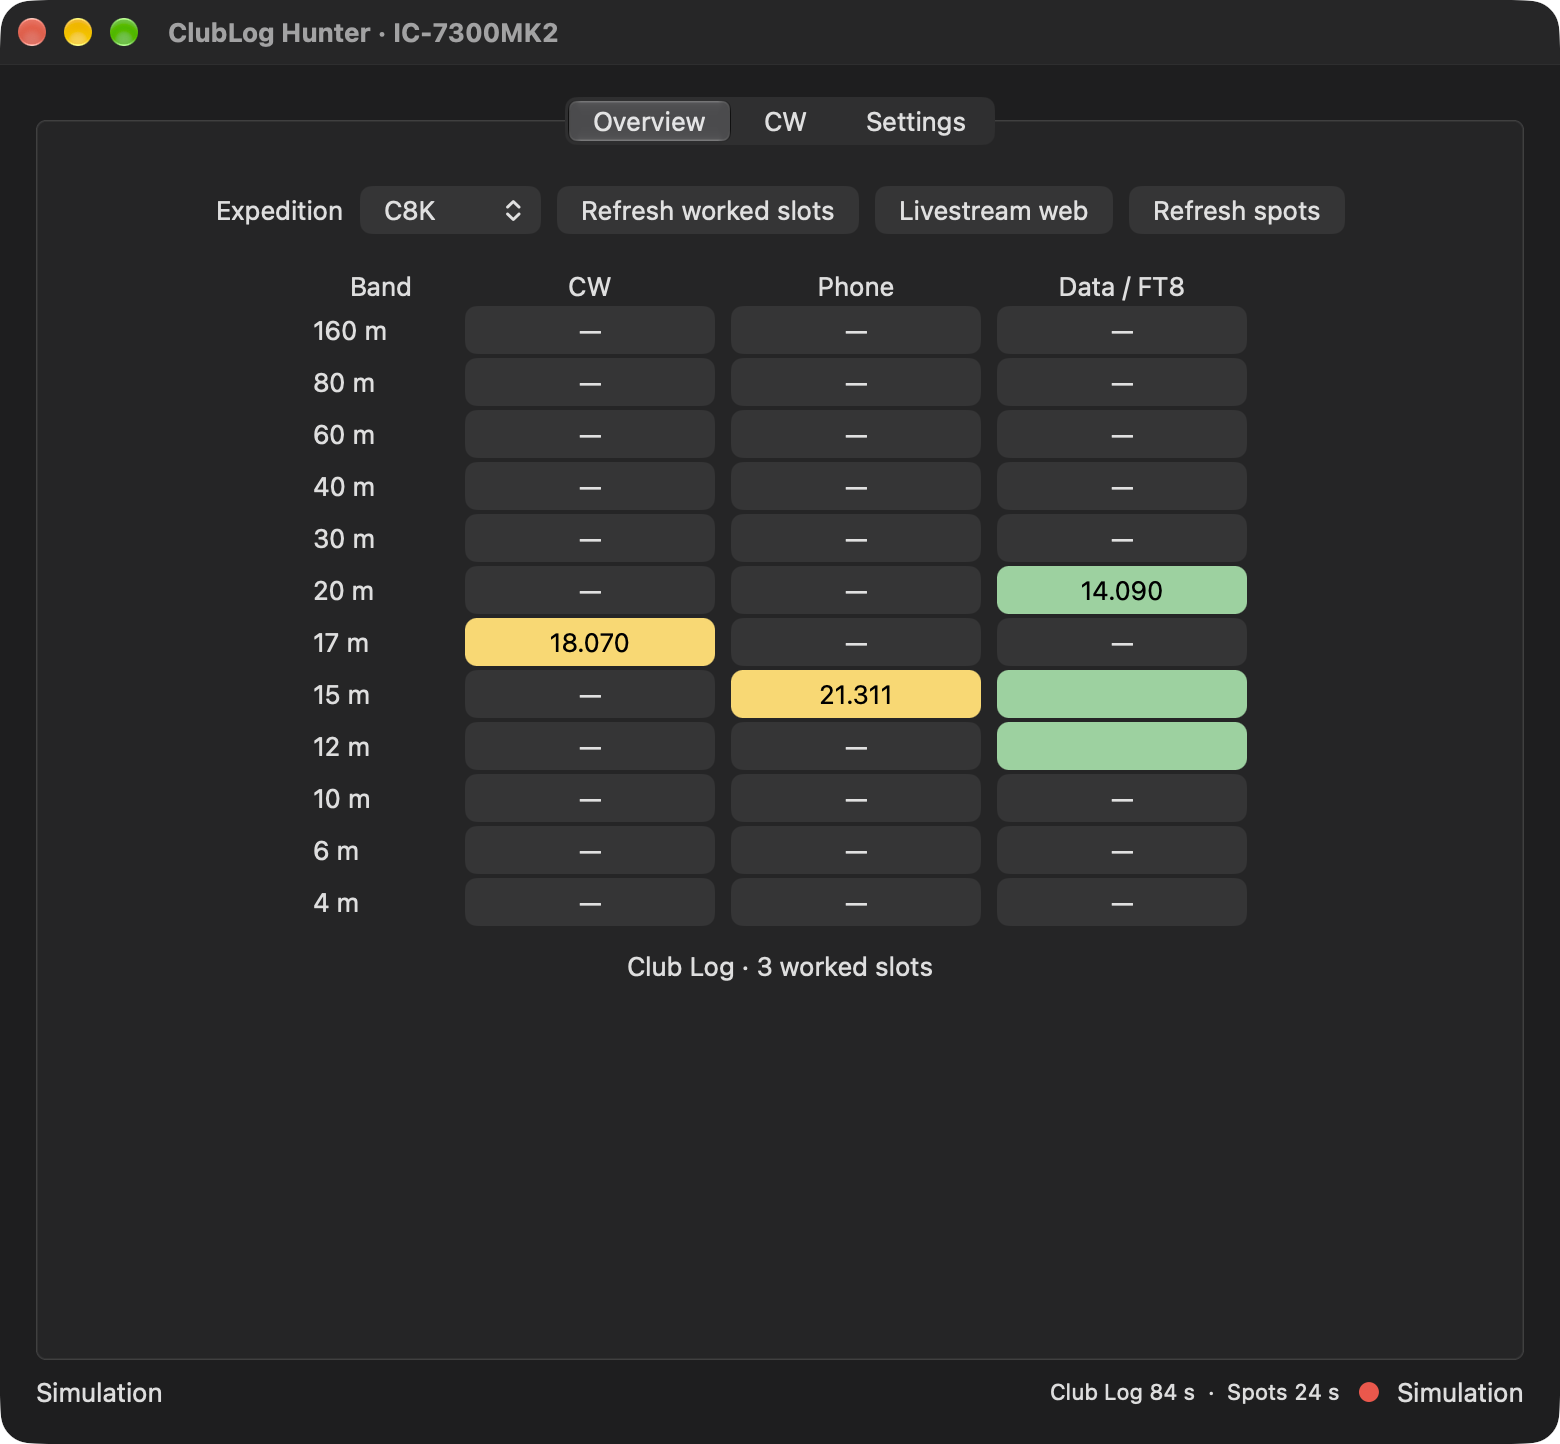
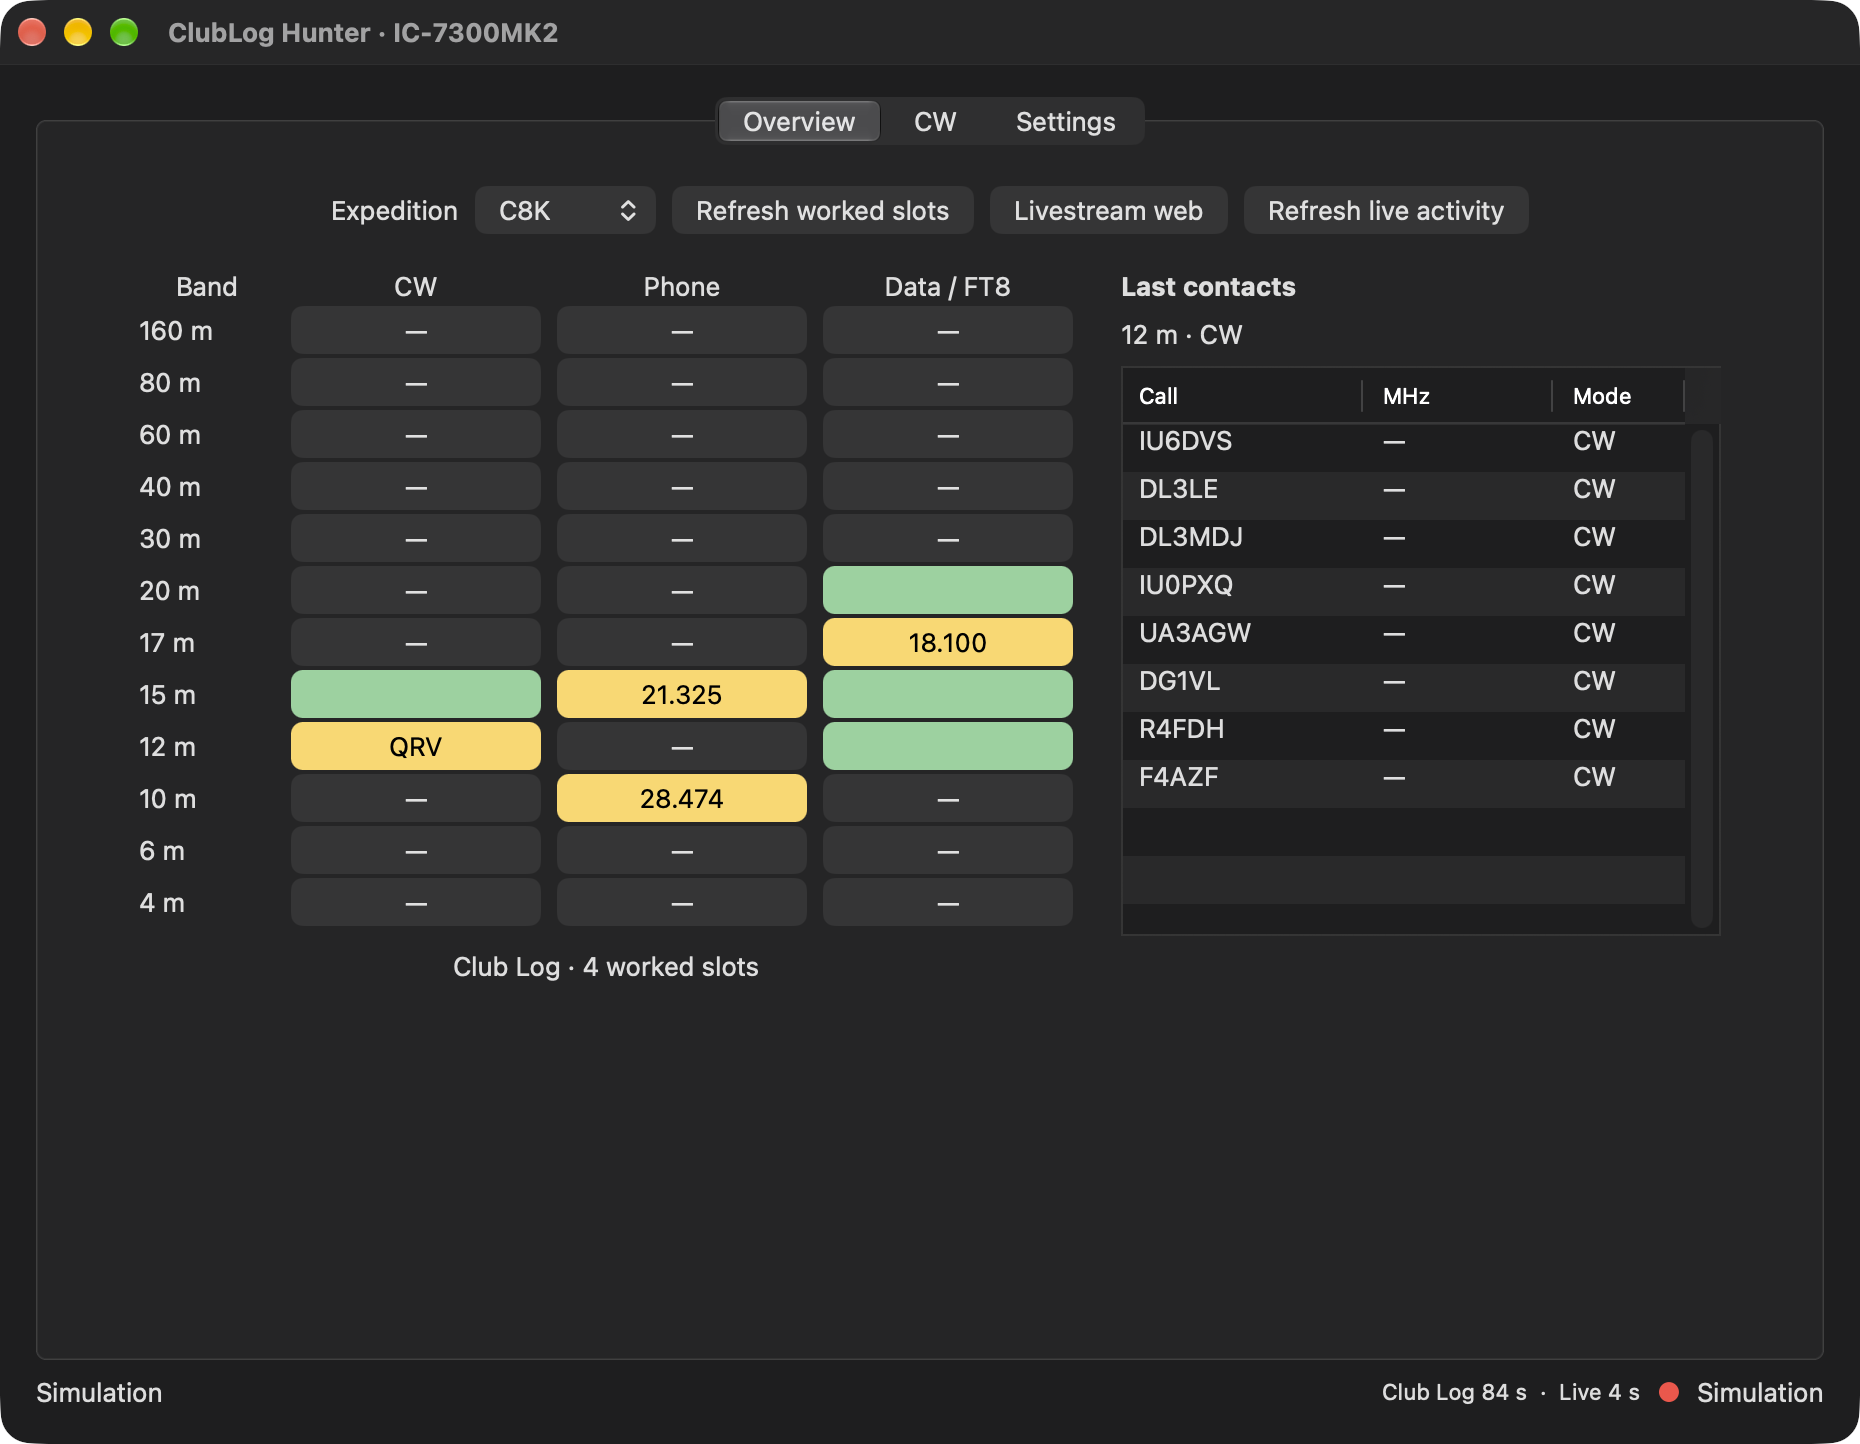
Show livestream contacts for the tuned band and mode

diff --git a/Native.swift b/Native.swift
@@ -122,7 +122,7 @@ private enum Appearance: String, CaseIterable {
     }
 }
 
-final class Delegate: NSObject, NSApplicationDelegate {
+final class Delegate: NSObject, NSApplicationDelegate, NSTableViewDataSource, NSTableViewDelegate {
     private let appearanceKey = "appearance"
     private var selectedAppearance: Appearance {
         UserDefaults.standard.string(forKey: appearanceKey)
@@ -150,6 +150,12 @@ final class Delegate: NSObject, NSApplicationDelegate {
     private var livestream: WKWebView?
     private var streamCall = ""
     private var liveSlots: [String: [String: String]] = [:]
+    private let contactsTable = NSTableView()
+    private let contactsFilter = NSTextField(labelWithString: "Connect radio or start simulation")
+    private var recentContacts: [[String: String]] = []
+    private var filteredContacts: [[String: String]] = []
+    private var tunedBand: Int?
+    private var tunedMode: String?
     private var liveSlotsValidUntil = Date.distantPast
     private var streamReadInProgress = false
     private var retryStreamAfter = Date.distantPast
@@ -172,11 +178,11 @@ final class Delegate: NSObject, NSApplicationDelegate {
 
     func applicationDidFinishLaunching(_ notification: Notification) {
         NSApp.appearance = selectedAppearance.nativeAppearance
-        window = NSWindow(contentRect: NSRect(x: 0, y: 0, width: 780, height: 690),
+        window = NSWindow(contentRect: NSRect(x: 0, y: 0, width: 930, height: 690),
                           styleMask: [.titled, .closable, .miniaturizable, .resizable],
                           backing: .buffered, defer: false)
         window.title = "ClubLog Hunter · IC-7300MK2"
-        window.minSize = NSSize(width: 720, height: 650)
+        window.minSize = NSSize(width: 880, height: 650)
         window.center()
         let spacer = NSView()
         status.setContentCompressionResistancePriority(.defaultLow, for: .horizontal)
@@ -289,11 +295,70 @@ final class Delegate: NSObject, NSApplicationDelegate {
             rows.append(buttons)
             table.addArrangedSubview(stack([label("\(band) m", width: 68)] + buttons, vertical: false))
         }
-        let layout = stack([head, table, log])
-        layout.setCustomSpacing(18, after: head)
-        layout.setCustomSpacing(12, after: table)
+        let overview = stack([table, log], spacing: 12)
+        overview.alignment = .centerX
+        let columns = stack([overview, buildContacts()], vertical: false, spacing: 24)
+        columns.alignment = .top
+        let layout = stack([head, columns], spacing: 18)
         layout.alignment = .centerX
         return layout
+    }
+
+    private func buildContacts() -> NSStackView {
+        let title = label("Last contacts")
+        title.font = .boldSystemFont(ofSize: NSFont.systemFontSize)
+        contactsTable.dataSource = self
+        contactsTable.delegate = self
+        contactsTable.usesAlternatingRowBackgroundColors = true
+        for (key, title, width) in [("call", "Call", 105.0), ("frequency", "MHz", 78), ("mode", "Mode", 64)] {
+            let column = NSTableColumn(identifier: NSUserInterfaceItemIdentifier(key))
+            column.title = title
+            column.width = width
+            contactsTable.addTableColumn(column)
+        }
+        let scroll = NSScrollView()
+        scroll.documentView = contactsTable
+        scroll.hasVerticalScroller = true
+        scroll.borderType = .bezelBorder
+        scroll.widthAnchor.constraint(equalToConstant: 300).isActive = true
+        scroll.heightAnchor.constraint(equalToConstant: 285).isActive = true
+        return stack([title, contactsFilter, scroll])
+    }
+
+    func numberOfRows(in tableView: NSTableView) -> Int { filteredContacts.count }
+
+    func tableView(_ tableView: NSTableView, viewFor column: NSTableColumn?, row: Int) -> NSView? {
+        guard let key = column?.identifier.rawValue else { return nil }
+        return label(filteredContacts[row][key] ?? "—")
+    }
+
+    private func refreshContacts() {
+        let modeNames = ["C": "CW", "P": "Phone", "D": "Data"]
+        let contacts: [[String: String]]
+        if let tunedBand, let tunedMode, let name = modeNames[tunedMode] {
+            contacts = recentContacts.filter { $0["band"] == String(tunedBand) && $0["group"] == tunedMode }
+            contactsFilter.stringValue = "\(tunedBand) m · \(name)" + (contacts.isEmpty ? " · No recent contacts" : "")
+        } else {
+            contacts = []
+            contactsFilter.stringValue = radioConnected || simulated ? "Waiting for a supported band and mode" : "Connect radio or start simulation"
+        }
+        if contacts != filteredContacts {
+            filteredContacts = contacts
+            contactsTable.reloadData()
+            if !contacts.isEmpty { contactsTable.scrollRowToVisible(0) }
+        }
+    }
+
+    // Frequency ranges in MHz from the ADIF Band Enumeration.
+    private func updateTunedSlot(hz: Int?, mode: String?) {
+        let ranges: [(Int, ClosedRange<Double>)] = [
+            (160, 1.8...2), (80, 3.5...4), (60, 5.06...5.45), (40, 7...7.3),
+            (30, 10.1...10.15), (20, 14...14.35), (17, 18.068...18.168), (15, 21...21.45),
+            (12, 24.890...24.99), (10, 28...29.7), (6, 50...54), (4, 70...71)
+        ]
+        tunedBand = hz.flatMap { frequency in ranges.first { $0.1.contains(Double(frequency) / 1_000_000) }?.0 }
+        tunedMode = mode
+        refreshContacts()
     }
 
     func buildMemories() -> NSStackView {
@@ -350,6 +415,7 @@ final class Delegate: NSObject, NSApplicationDelegate {
                     self.simulated = false
                     self.radioConnected = false
                     self.updateRadioIndicator()
+                    self.updateTunedSlot(hz: nil, mode: nil)
                 }
             }
         ], vertical: false))
@@ -384,6 +450,7 @@ final class Delegate: NSObject, NSApplicationDelegate {
             self.simulated = simulate
             self.radioConnected = !simulate
             self.updateRadioIndicator()
+            self.checkRadioConnection()
             self.readMemories()
         }
     }
@@ -394,12 +461,19 @@ final class Delegate: NSObject, NSApplicationDelegate {
     }
 
     func checkRadioConnection() {
-        guard radioConnected, !busy, !radioCheckInProgress else { return }
+        guard (radioConnected || simulated), !busy, !radioCheckInProgress else { return }
         radioCheckInProgress = true
         worker.request("radio_status", [:]) { response in
             self.radioCheckInProgress = false
-            guard self.radioConnected, response["result"] as? Bool != true else { return }
+            guard self.radioConnected || self.simulated else { return }
+            let result = response["result"] as? [String: Any]
+            if result?["connected"] as? Bool == true {
+                self.updateTunedSlot(hz: result?["frequencyHz"] as? Int, mode: result?["mode"] as? String)
+                return
+            }
             self.radioConnected = false
+            self.simulated = false
+            self.updateTunedSlot(hz: nil, mode: nil)
             self.updateRadioIndicator()
             self.status.stringValue = "The radio stopped responding."
         }
@@ -487,6 +561,8 @@ final class Delegate: NSObject, NSApplicationDelegate {
             livestream = nil
             streamCall = call
             liveSlots = [:]
+            recentContacts = []
+            refreshContacts()
             liveSlotsValidUntil = .distantPast
             streamReadInProgress = false
             refreshSlots()
@@ -523,6 +599,8 @@ final class Delegate: NSObject, NSApplicationDelegate {
                 self.liveSlots = slots
                 self.refreshSlots()
             }
+            self.recentContacts = snapshot?["contacts"] as? [[String: String]] ?? []
+            self.refreshContacts()
             if manual {
                 self.status.stringValue = connected ? "Club Log live activity refreshed." : "Club Log live activity unavailable."
             }
@@ -562,7 +640,11 @@ final class Delegate: NSObject, NSApplicationDelegate {
                     slots[key] = {frequency: String(entry.colFreq), mode: label, radioMode};
                 }
             }
-            return {connected, slots};
+            const contacts = connected ? allListEntries.slice().reverse().map(entry => ({
+                band: String(entry.band), group: ['D', 'C', 'P'][entry.mc] ?? '',
+                call: String(entry.call), frequency: String(entry.colFreq), mode: String(entry.colMode)
+            })) : [];
+            return {connected, slots, contacts};
         })()
         """#
 
@@ -603,9 +685,11 @@ final class Delegate: NSObject, NSApplicationDelegate {
 
     func updateRefreshCountdown() {
         let now = Date()
-        if now >= liveSlotsValidUntil, !liveSlots.isEmpty {
+        if now >= liveSlotsValidUntil, !liveSlots.isEmpty || !recentContacts.isEmpty {
             liveSlots = [:]
+            recentContacts = []
             refreshSlots()
+            refreshContacts()
         }
         if now >= nextLiveRefresh || streamCall != expedition { refreshLiveActivity() }
         if now >= nextClubRefresh, !key.stringValue.isEmpty { refreshClubLog() }
@@ -730,7 +814,9 @@ final class Delegate: NSObject, NSApplicationDelegate {
         save()
     }
 
-    func tune(_ mode: String) { run("tune", ["frequency": frequency.stringValue, "mode": mode]) }
+    func tune(_ mode: String) {
+        run("tune", ["frequency": frequency.stringValue, "mode": mode]) { _ in self.checkRadioConnection() }
+    }
 
     func readMemories() {
         run("read") { result in

diff --git a/radio.py b/radio.py
@@ -95,6 +95,19 @@ class Radio:
     def frequency(self):
         return decode_frequency(self.command(b"\x03", b"\x03"))
 
+    def mode_group(self):
+        reply = self.command(b"\x26\x00", b"\x26\x00")
+        if len(reply) != 3:
+            raise ValueError("The radio returned an unexpected mode format.")
+        mode, data, _ = reply
+        if mode in (3, 7):
+            return "C"
+        if data or mode in (4, 8, 0x17, 0x18):
+            return "D"
+        if mode in (0, 1, 2, 5, 6):
+            return "P"
+        return None
+
     def require_rx(self):
         if self.command(b"\x1c\x00", b"\x1c\x00") != b"\x00":
             raise ValueError("The radio is transmitting or did not report RX mode.")
@@ -153,6 +166,9 @@ class Simulator:
 
     def tune(self, hz, mode):
         self.hz, self.mode = hz, mode
+
+    def mode_group(self):
+        return {"CW": "C", "FT8": "D", "USB": "P", "LSB": "P"}[self.mode]
 
     def read_memory(self, index):
         return self.memories[index - 1]

diff --git a/lovec.py b/lovec.py
@@ -161,14 +161,18 @@ class Controller:
                     self.rejected_keys.add(key)
                 raise ValueError(club_log_error(exc, key)) from None
         if action == "radio_status":
-            if not isinstance(self.radio, Radio):
-                return False
+            if self.radio is None:
+                return {"connected": False}
             try:
-                self.radio.frequency()
+                hz = self.radio.frequency()
             except (OSError, ValueError):
                 self.close()
-                return False
-            return True
+                return {"connected": False}
+            try:
+                mode = self.radio.mode_group()
+            except (OSError, ValueError):
+                mode = None
+            return {"connected": True, "frequencyHz": hz, "mode": mode}
         if action == "disconnect":
             self.close()
             return "Radio disconnected."

diff --git a/README.md b/README.md
@@ -6,11 +6,11 @@ ClubLog Hunter is a native macOS app for hunting amateur radio DXpeditions with 
 
 ## Screenshots
 
-The Overview and CW tabs shown with sample data.
+ClubLog Hunter 0.3.5 in simulation with sample data. The Overview shows the **Last contacts** panel filtered to **12 m CW**.
 
 | Overview | CW memories |
 | --- | --- |
-| ![Overview with frequencies and worked slots](assets/overview.png) | ![CW tab with eight radio memories](assets/cw.png) |
+| ![Overview with live frequencies, worked slots, and recent 12 m CW contacts](assets/overview.png) | ![CW tab with eight radio memories](assets/cw.png) |
 
 ## Build and launch
 
@@ -34,6 +34,7 @@ The build produces a locally signed app bundle.
 - Enter your callsign and a Club Log REST API token in **Settings**, then click **Save settings**. Create the token in Club Log under **Settings → API**. Hunter stores it in the macOS Keychain.
 - The expedition menu loads callsigns from Club Log with a QSO in the last seven days. Hunter restores the last selected expedition when it is available. The manually configured callsigns are available at startup before the first successful fetch.
 - **Overview** reads active band and mode combinations and their latest reported frequencies from the public Club Log Livestream. The app checks the page every five seconds. **Refresh live activity** checks immediately, and **Livestream web** opens the same page in your browser.
+- **Last contacts** lists recent Livestream QSOs for the selected expedition, newest first. It follows the radio's band and Club Log mode group (CW, Phone, or Data). The app checks the radio every five seconds, including when you retune with the radio's controls. Each row shows the callsign, frequency in MHz when reported, and the logged mode. A dash marks a contact whose frequency was omitted.
 - Yellow cells show live activity. A cell displays **QRV** when the livestream reports activity without a frequency. Green cells show your worked slots and take precedence over yellow. The live indication disappears when the slot goes inactive or live data becomes unavailable.
 - Click a live frequency to tune **VFO A**. Click **QRV** to enter a frequency when the livestream omits it. While that slot is active, the saved frequency appears in the cell and can be clicked to tune. Hover over the cell to see that the frequency was entered manually. Option-click to edit or remove the saved frequency.
 - In **Settings → Appearance**, select **Light**, **Dark**, or **System** to follow the macOS setting. Hunter remembers your choice.
